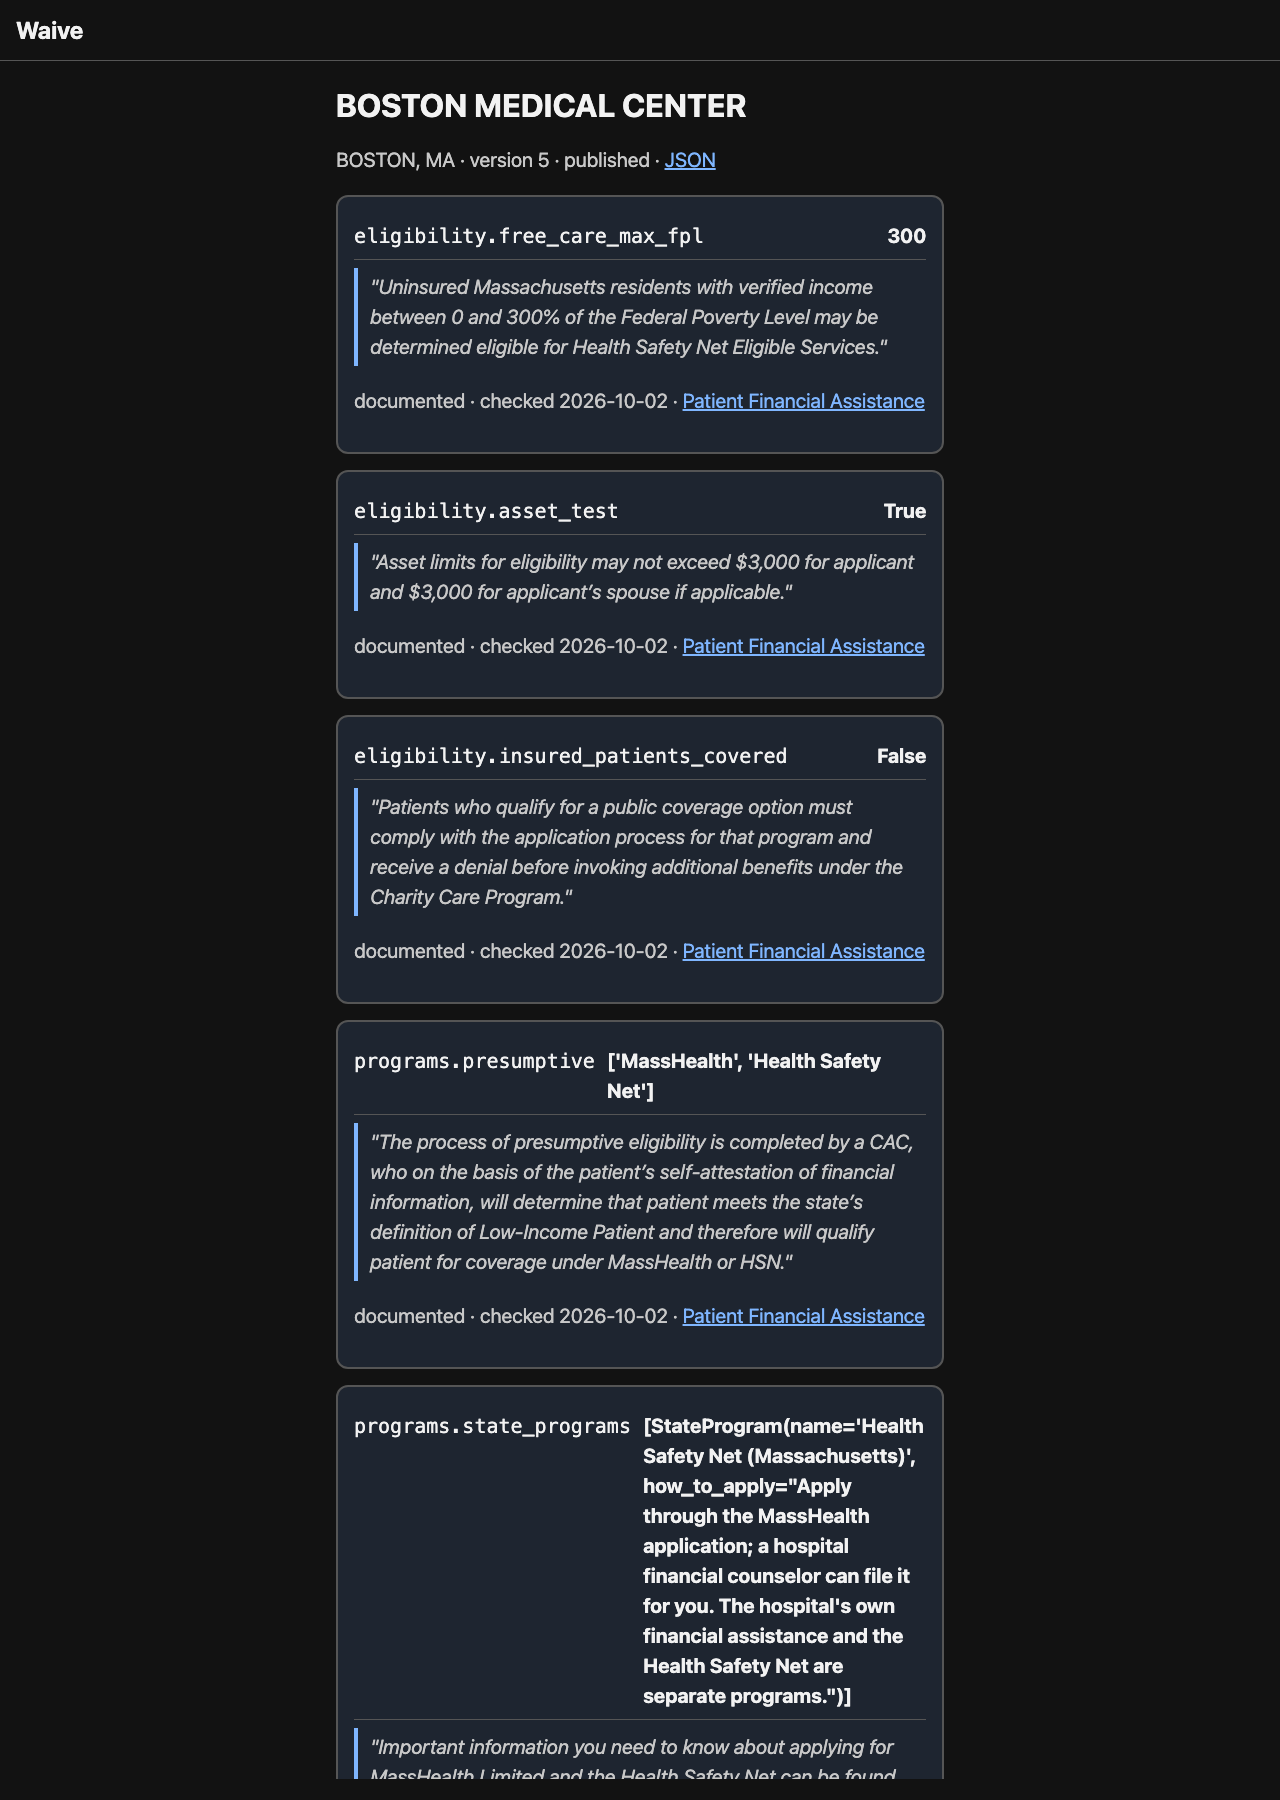
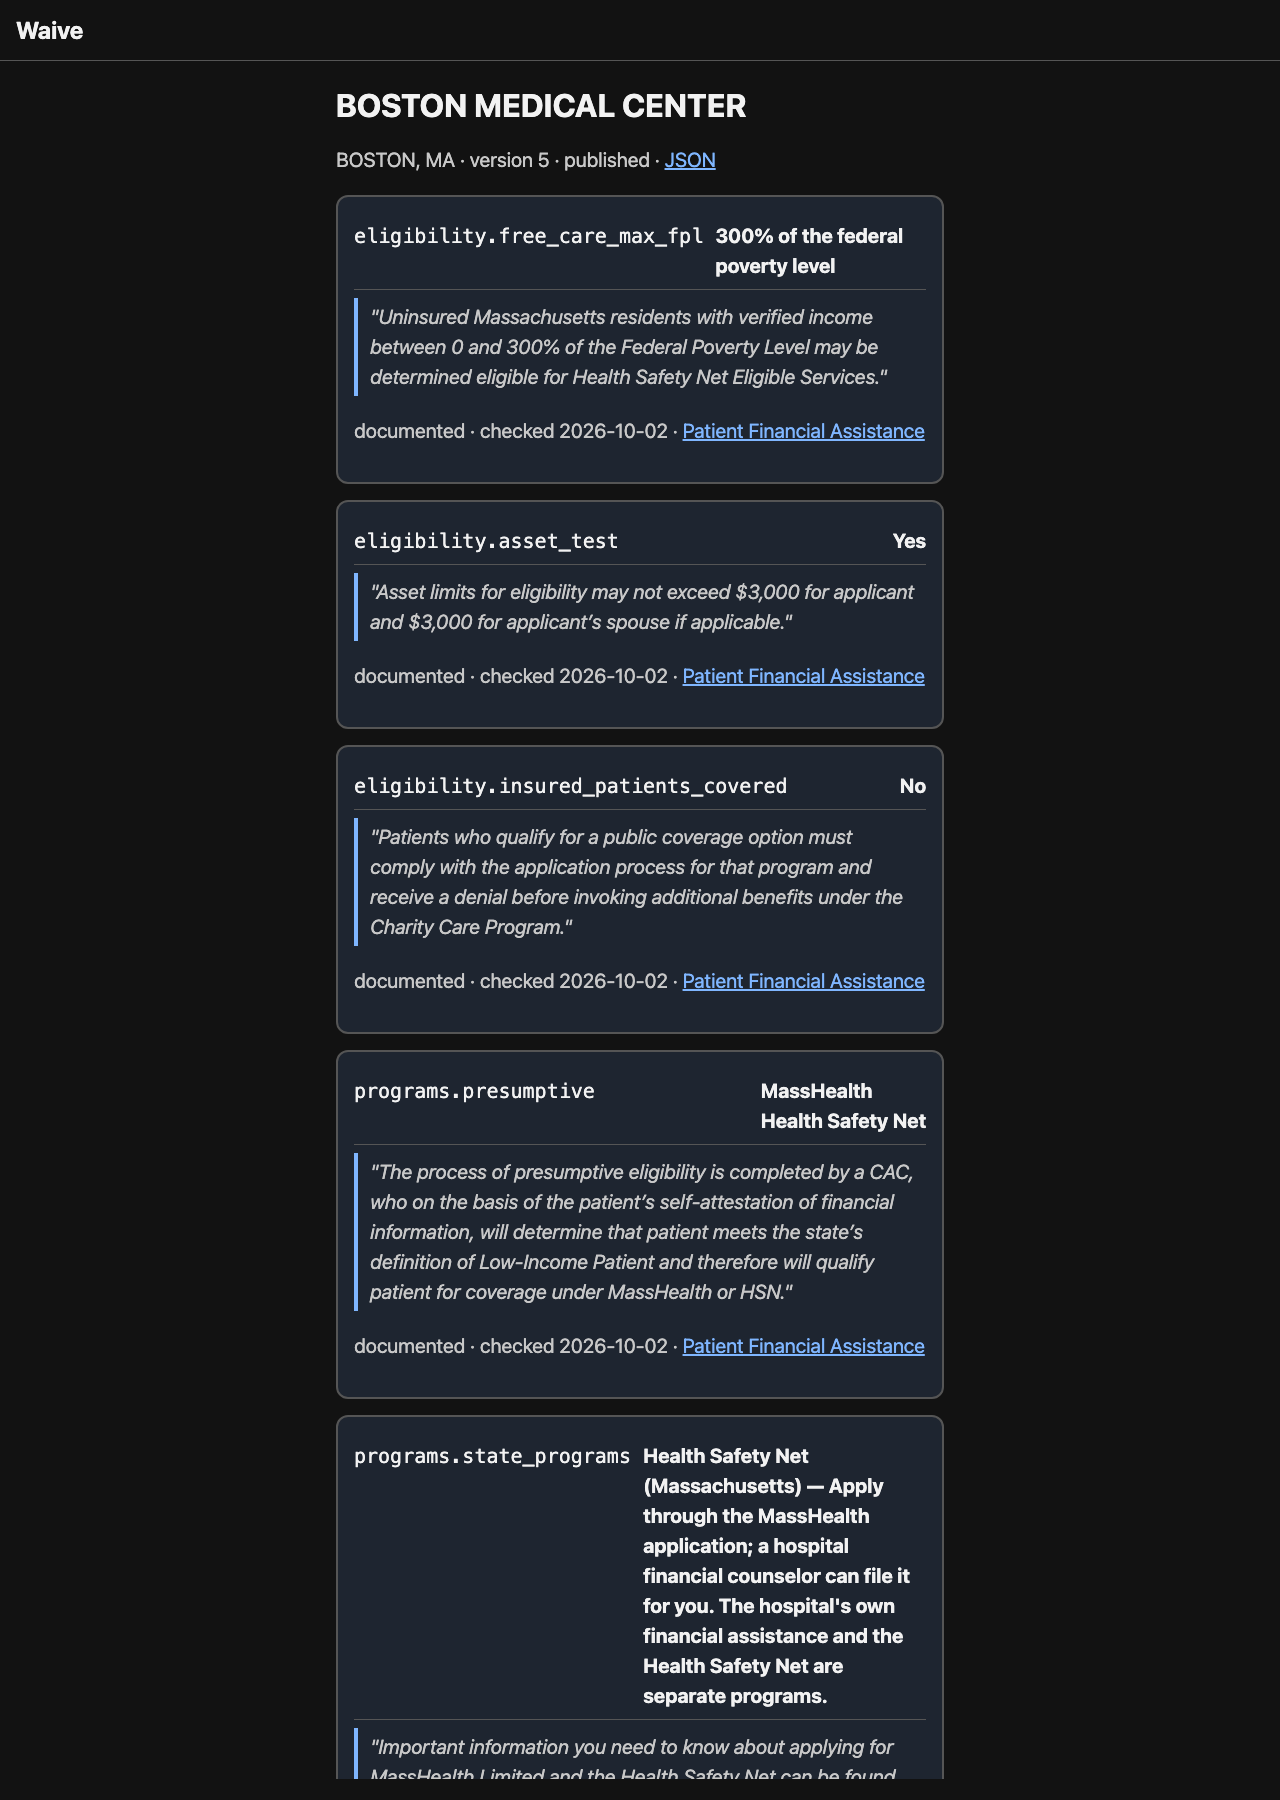
fix: atlas sheet renders cited values in plain language (8.7a)

Changed region(s): [[0.25, 0.1244, 0.75, 0.84]]

diff --git a/src/waive/web/templates/atlas_sheet.html b/src/waive/web/templates/atlas_sheet.html
@@ -6,7 +6,7 @@
 {% if flag == "public" %}<p class="card status-unknown">{{ slip_count }} patients report being denied or given less help than this policy promises. The sheet is queued for a re-check; the hospital decides each application.</p>{% endif %}
 {% for path, cited, source in fields %}
 <div class="card">
-  <div class="row"><span><code>{{ path }}</code></span><strong>{{ cited.value }}</strong></div>
+  <div class="row"><span><code>{{ path }}</code></span><strong>{% for line in cited.value | plain(path) %}{{ line }}{% if not loop.last %}<br>{% endif %}{% endfor %}</strong></div>
   {% if cited.quote %}<p class="quote">"{{ cited.quote }}"</p>{% endif %}
   <p class="muted">{{ cited.layer.value }} · checked {{ cited.checked_on }}{% if source %} · {% if source.url %}<a href="{{ source.url }}">{{ source.title or source.url }}</a>{% else %}{{ source.title }}{% endif %}{% endif %}{% if cited.support_count %} · reported by {{ cited.support_count }} people{% endif %}</p>
 </div>

diff --git a/tests/unit/test_plain.py b/tests/unit/test_plain.py
@@ -1,0 +1,122 @@
+from decimal import Decimal
+
+from waive.atlas.samples import st_example_sheet
+from waive.atlas.schema import DiscountTier, DocType, StateProgram, SubmitMethod
+from waive.web.plain import plain_lines
+
+
+def test_fpl_limit_reads_as_a_share_of_the_poverty_level():
+    path = "eligibility.free_care_max_fpl"
+    assert plain_lines(Decimal("250"), path) == ["250% of the federal poverty level"]
+    # No trailing zeros and no exponent, whatever the Decimal's internal form.
+    assert plain_lines(Decimal("137.50"), path) == ["137.5% of the federal poverty level"]
+    assert plain_lines(Decimal("1E+2"), path) == ["100% of the federal poverty level"]
+
+
+def test_money_reads_as_dollars_and_cents():
+    assert plain_lines(Decimal("1234"), "eligibility.min_balance") == ["$1,234.00"]
+    assert plain_lines(Decimal("50.5"), "eligibility.min_balance") == ["$50.50"]
+
+
+def test_discount_tiers_one_line_per_tier():
+    tiers = [
+        DiscountTier(
+            min_fpl_exclusive=Decimal("200"), max_fpl_inclusive=Decimal("300"), discount_percent=60
+        ),
+        DiscountTier(
+            min_fpl_exclusive=Decimal("300"), max_fpl_inclusive=Decimal("400"), discount_percent=40
+        ),
+    ]
+    assert plain_lines(tiers, "eligibility.discount_tiers") == [
+        "Above 200% up to 300% of FPL: 60% discount",
+        "Above 300% up to 400% of FPL: 40% discount",
+    ]
+
+
+def test_state_programs_name_then_how_to_apply():
+    programs = [
+        StateProgram(
+            name="Health Safety Net (Massachusetts)",
+            how_to_apply="Apply through the MassHealth application.",
+        )
+    ]
+    assert plain_lines(programs, "programs.state_programs") == [
+        "Health Safety Net (Massachusetts) — Apply through the MassHealth application."
+    ]
+
+
+def test_submit_methods_capitalise_the_kind():
+    methods = [
+        SubmitMethod(kind="mail", detail="1 Example Way, Boston, MA 02118"),
+        SubmitMethod(kind="fax", detail="617-555-0199"),
+        SubmitMethod(kind="in_person", detail="Patient Financial Services, 2nd floor"),
+    ]
+    assert plain_lines(methods, "apply.submit_methods") == [
+        "Mail: 1 Example Way, Boston, MA 02118",
+        "Fax: 617-555-0199",
+        "In person: Patient Financial Services, 2nd floor",
+    ]
+
+
+def test_every_document_type_has_a_readable_label():
+    assert plain_lines(list(DocType), "apply.documents_required") == [
+        "Photo ID",
+        "Proof of income",
+        "Social Security letter",
+        "Tax return",
+        "Pay stubs",
+        "Bank statements",
+        "Proof of residency",
+        "Insurance card",
+        "Medicaid denial letter",
+        "Other documents",
+    ]
+    # The reported-documents field uses the same labels.
+    assert plain_lines([DocType.PAY_STUBS], "apply.documents_reported") == ["Pay stubs"]
+
+
+def test_repeated_items_are_listed_once():
+    docs = [DocType.OTHER, DocType.PHOTO_ID, DocType.OTHER]
+    assert plain_lines(docs, "apply.documents_required") == ["Other documents", "Photo ID"]
+
+
+def test_booleans_read_yes_or_no():
+    assert plain_lines(True, "eligibility.asset_test") == ["Yes"]
+    assert plain_lines(False, "eligibility.insured_patients_covered") == ["No"]
+
+
+def test_day_counts_say_days():
+    assert plain_lines(240, "apply.window_days_from_first_bill") == ["240 days"]
+    assert plain_lines(30, "apply.decision_days") == ["30 days"]
+    assert plain_lines(45, "apply.decision_days_reported") == ["45 days"]
+    assert plain_lines(1, "collections.eca_wait_days") == ["1 day"]
+
+
+def test_other_integers_stay_plain_numbers():
+    assert plain_lines(7, "some.count") == ["7"]
+
+
+def test_string_lists_one_item_per_line():
+    assert plain_lines(["MassHealth", "SNAP"], "programs.presumptive") == ["MassHealth", "SNAP"]
+    assert plain_lines(["English", "Spanish"], "contacts.languages") == ["English", "Spanish"]
+
+
+def test_strings_are_unchanged():
+    assert plain_lines("617-555-0100", "contacts.phone") == ["617-555-0100"]
+    url = "https://example.org/form.pdf"
+    assert plain_lines(url, "apply.form_url") == [url]
+
+
+def test_empty_and_unknown_values():
+    assert plain_lines([], "programs.presumptive") == []
+    assert plain_lines(None, "contacts.phone") == []
+    assert plain_lines(1.5, "some.ratio") == ["1.5"]
+
+
+def test_the_sample_sheet_renders_without_repr_markers():
+    for path, cited in st_example_sheet().field_paths():
+        lines = plain_lines(cited.value, path)
+        assert lines, path
+        for line in lines:
+            assert "[" not in line and "]" not in line, (path, line)
+            assert "=" not in line and "DocType" not in line and "Decimal" not in line, (path, line)

diff --git a/src/waive/web/plain.py b/src/waive/web/plain.py
@@ -1,0 +1,75 @@
+"""Plain-language rendering of cited atlas values for the public sheet page.
+
+The schema stores facts as Decimals, enums and small models. A senior reading the page should
+see "250% of the federal poverty level" and "Photo ID", never Decimal('250') or a list repr.
+Registered as the Jinja filter `plain` in `waive.web.app`; pure, so the unit tests call it
+directly."""
+
+from decimal import Decimal
+from typing import Any
+
+from waive.atlas.schema import DiscountTier, DocType, StateProgram, SubmitMethod
+
+DOC_LABELS: dict[DocType, str] = {
+    DocType.PHOTO_ID: "Photo ID",
+    DocType.PROOF_OF_INCOME: "Proof of income",
+    DocType.SOCIAL_SECURITY_LETTER: "Social Security letter",
+    DocType.TAX_RETURN: "Tax return",
+    DocType.PAY_STUBS: "Pay stubs",
+    DocType.BANK_STATEMENTS: "Bank statements",
+    DocType.PROOF_OF_RESIDENCY: "Proof of residency",
+    DocType.INSURANCE_CARD: "Insurance card",
+    DocType.MEDICAID_DENIAL: "Medicaid denial letter",
+    DocType.OTHER: "Other documents",
+}
+
+
+def plain_lines(value: Any, path: str = "") -> list[str]:
+    """Short lines of plain English for one cited value. `path` is the sheet field
+    ("eligibility.free_care_max_fpl") and decides how a bare number reads: a percent of the
+    poverty level, dollars, or a count of days. Lists give one line per item, repeats dropped."""
+    if value is None:
+        return []
+    if isinstance(value, list):
+        lines: list[str] = []
+        for item in value:
+            for line in plain_lines(item, path):
+                if line not in lines:
+                    lines.append(line)
+        return lines
+    return [_plain(value, path.rsplit(".", 1)[-1])]
+
+
+def _plain(value: Any, field: str) -> str:
+    # bool before int (a bool is an int); DocType before str (a StrEnum is a str).
+    if isinstance(value, bool):
+        return "Yes" if value else "No"
+    if isinstance(value, DocType):
+        return DOC_LABELS.get(value) or _humanise(value.value)
+    if isinstance(value, str):
+        return value
+    if isinstance(value, Decimal):
+        if field.endswith("_fpl"):
+            return f"{_number(value)}% of the federal poverty level"
+        return f"${value:,.2f}"
+    if isinstance(value, int):
+        if "days" in field:
+            return "1 day" if value == 1 else f"{value} days"
+        return str(value)
+    if isinstance(value, DiscountTier):
+        low, high = _number(value.min_fpl_exclusive), _number(value.max_fpl_inclusive)
+        return f"Above {low}% up to {high}% of FPL: {value.discount_percent}% discount"
+    if isinstance(value, StateProgram):
+        return f"{value.name} — {value.how_to_apply}"
+    if isinstance(value, SubmitMethod):
+        return f"{_humanise(value.kind)}: {value.detail}"
+    return str(value)
+
+
+def _number(value: Decimal) -> str:
+    """250 and 137.5, never 250.00 or 2.5E+2."""
+    return format(value.normalize(), "f")
+
+
+def _humanise(token: str) -> str:
+    return token.replace("_", " ").capitalize()

diff --git a/tests/unit/test_web_atlas.py b/tests/unit/test_web_atlas.py
@@ -40,6 +40,30 @@ def test_atlas_pages_and_json():
     assert client.get("/atlas/000000").status_code == 404
 
 
+def test_atlas_sheet_reads_in_plain_language():
+    client, engine = make_client()
+    seed(engine)
+    page = client.get("/atlas/220031")
+    assert page.status_code == 200
+    # No Python reprs anywhere on the page: no list brackets, no model or enum names.
+    assert "[" not in page.text and "]" not in page.text
+    assert "StateProgram" not in page.text and "DocType" not in page.text
+    assert "250% of the federal poverty level" in page.text
+    assert "Above 250% up to 400% of FPL: 60% discount" in page.text
+    # Lists are one item per line.
+    assert "MassHealth<br>SNAP" in page.text
+    assert "Photo ID<br>Proof of income" in page.text
+    assert (
+        "Mail: Patient Financial Services, 1 Example Way, Boston, MA 02118<br>Fax: 617-555-0199"
+        in page.text
+    )
+    assert "240 days" in page.text and "120 days" in page.text
+    # The quote-and-source display is unchanged.
+    assert "household income at or below 250%" in page.text
+    assert "documented · checked 2026-10-02" in page.text
+    assert "Financial Assistance Policy" in page.text
+
+
 def test_atlas_list_hides_the_demo_hospital_unless_asked():
     client, engine = make_client()
     seed(engine)

diff --git a/src/waive/web/app.py b/src/waive/web/app.py
@@ -14,6 +14,7 @@ from waive.db import init_db, make_engine
 from waive.governor import make_governor
 from waive.logging_setup import configure_logging
 from waive.web.deps import STATIC_DIR, TEMPLATES_DIR, Deps, render, today_utc
+from waive.web.plain import plain_lines
 
 
 def _default_ai(settings: Settings, governor):
@@ -55,13 +56,16 @@ def create_app(
     app = FastAPI(title="Waive", docs_url=None, redoc_url=None, lifespan=lifespan)
     app.state.settings = settings
     app.state.governor = governor
+    templates = Jinja2Templates(directory=str(TEMPLATES_DIR))
+    # `{{ cited.value | plain(path) }}`: cited atlas values in plain language (atlas_sheet.html).
+    templates.env.filters["plain"] = plain_lines
     app.state.deps = Deps(
         engine=engine,
         ai=ai if ai is not None else _default_ai(settings, governor),
         cipher=cipher or cipher_from_settings(settings),
         signer=signer or signer_from_settings(settings),
         today_fn=today_fn or today_utc,
-        templates=Jinja2Templates(directory=str(TEMPLATES_DIR)),
+        templates=templates,
     )
     app.mount("/static", StaticFiles(directory=str(STATIC_DIR)), name="static")
 
